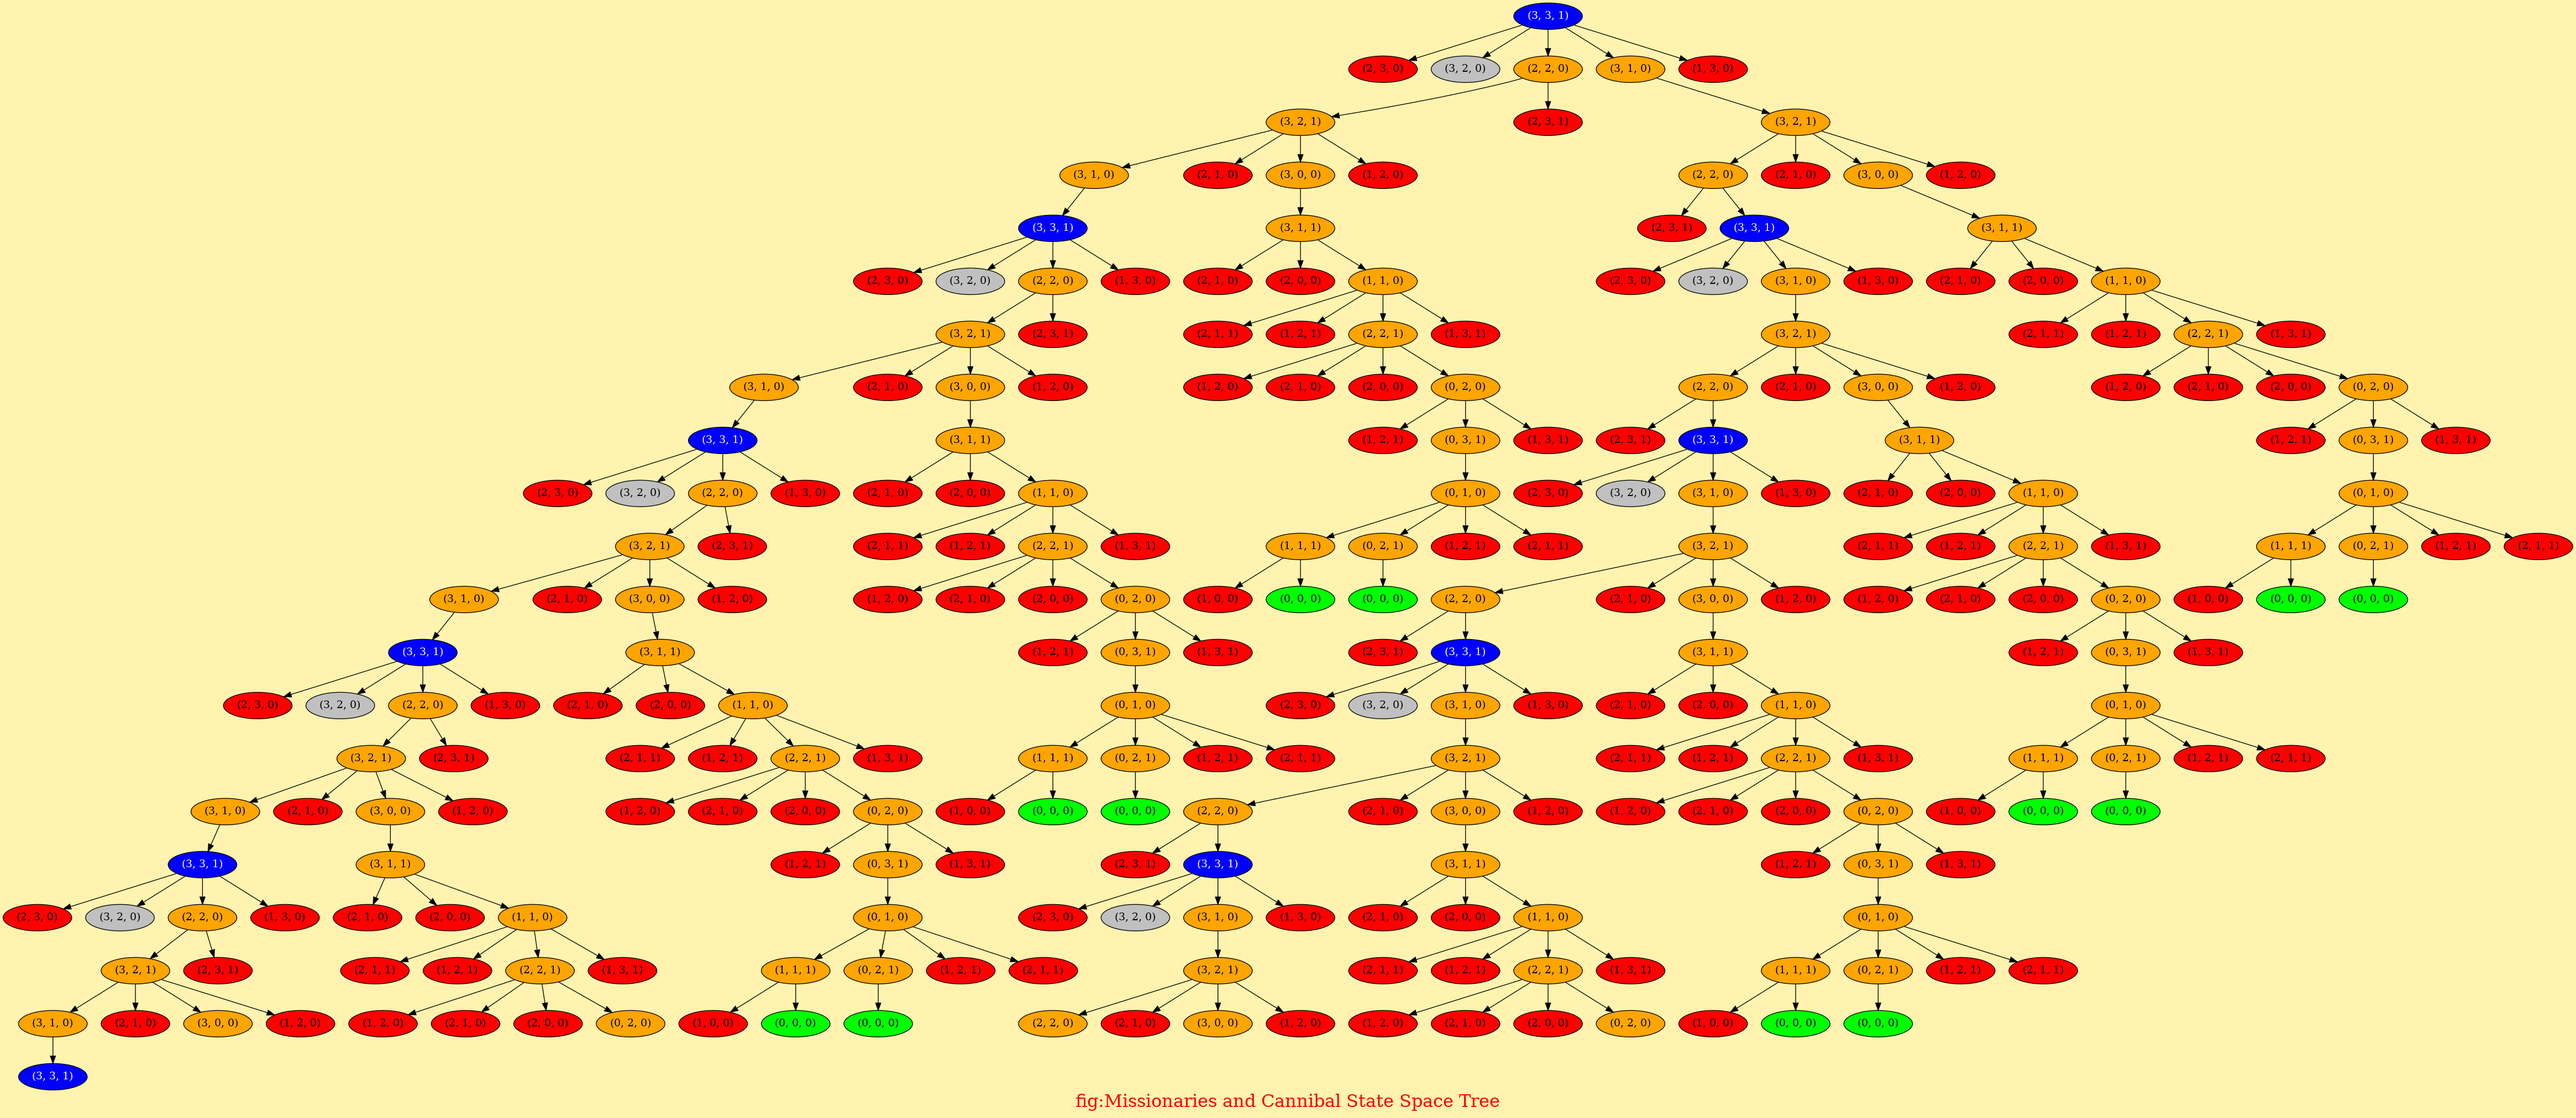
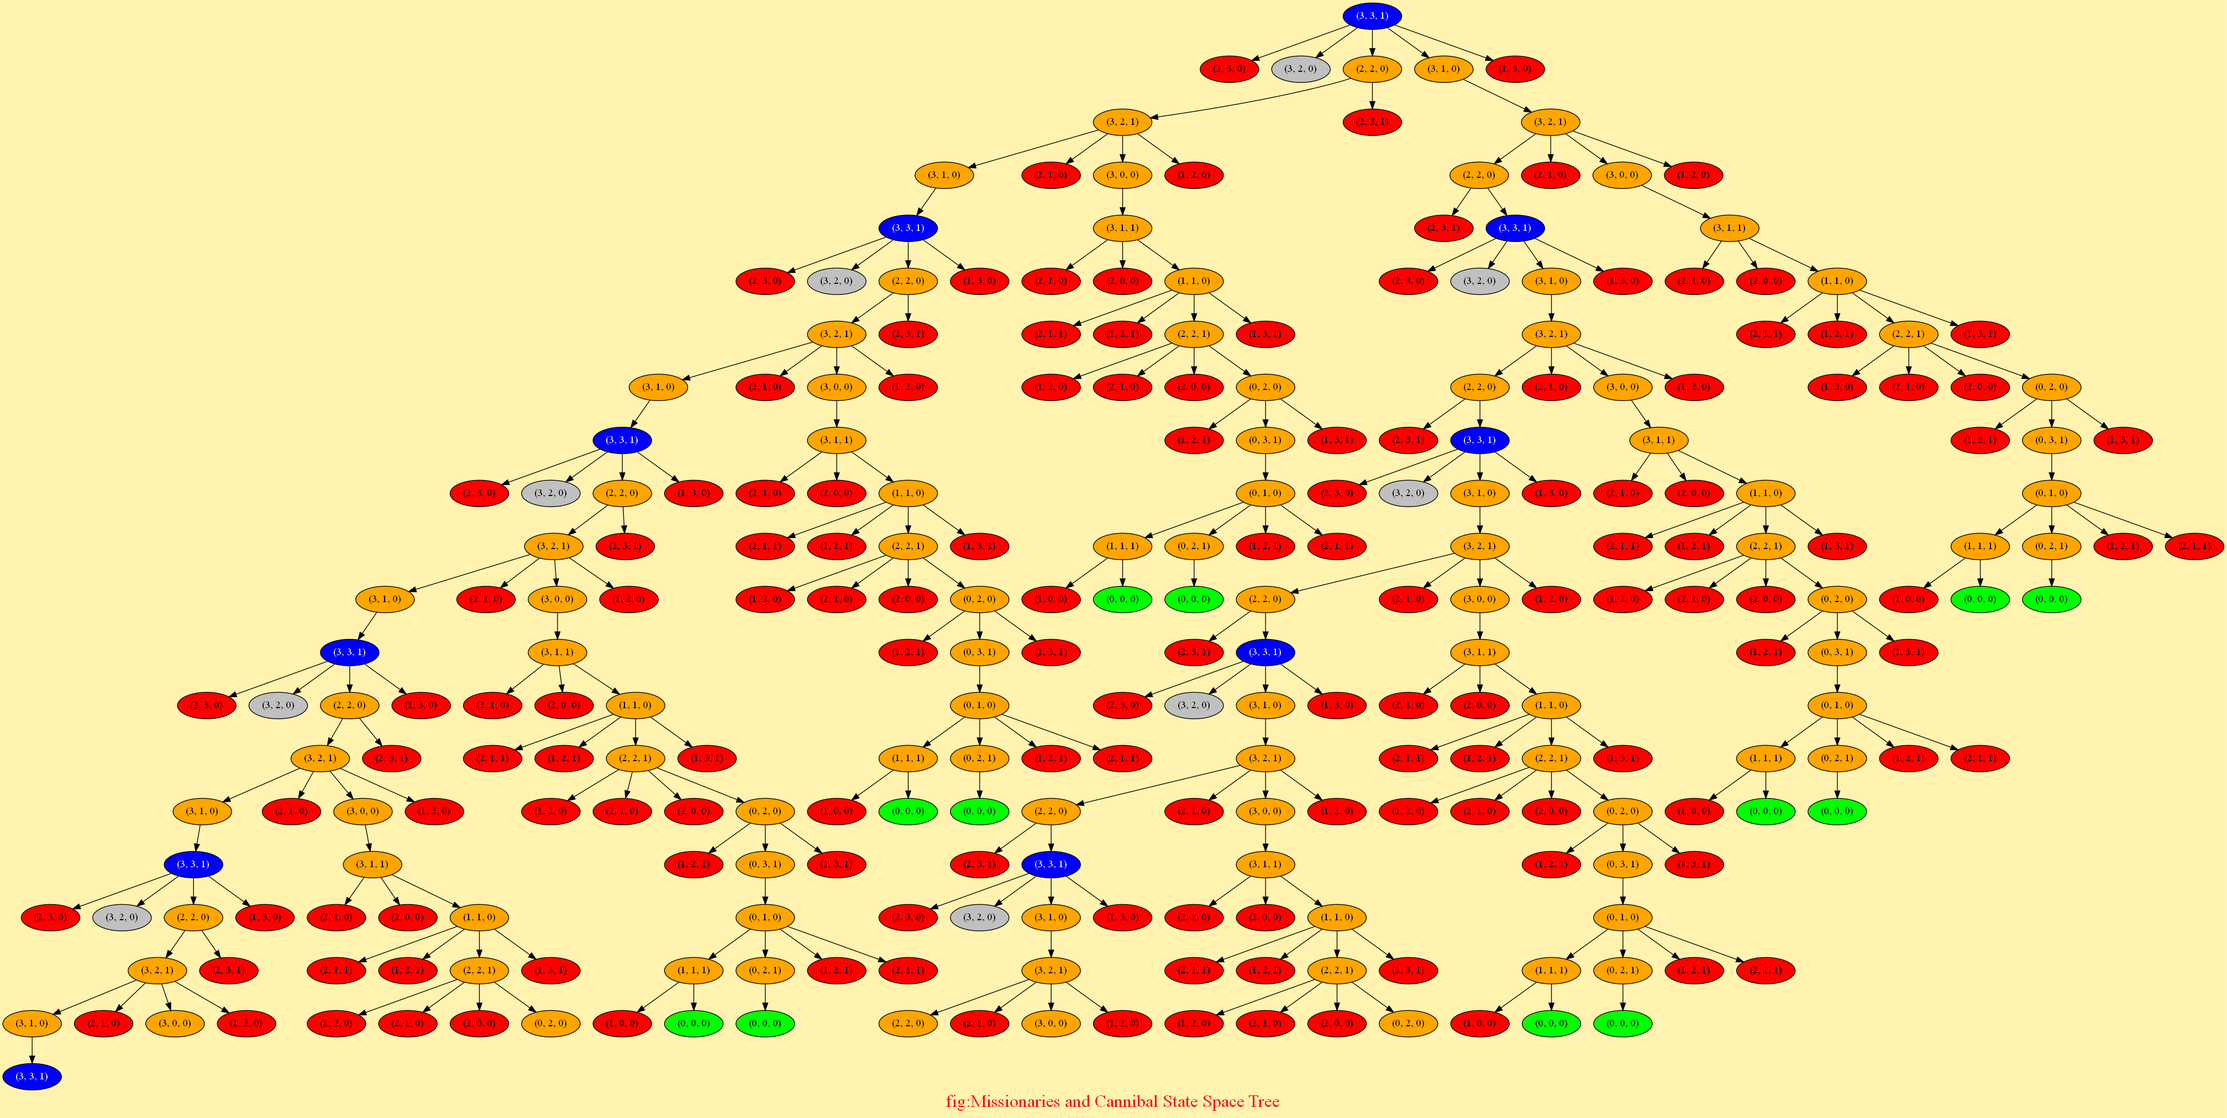
fix all code

diff --git a/TH_AI_Tuan 2/solve.py b/TH_AI_Tuan 2/solve.py
@@ -6,7 +6,7 @@ from collections import deque
 
 
 # set it to bin folder of graphvviz
-os.environ["PATH"] += os.pathsep + 'usr/bin'
+os.environ["PATH"] += os.pathsep + 'C:/Program Files/Graphviz/bin'
 
 
 # Dictionaries to backtrack solotion nodes
@@ -26,14 +26,14 @@ class Solution():
 
         self.start_state = (3, 3, 1)
         self.goal_state = (0, 0, 0)
-        self.options = [(1, 0), (0, 1), (1, 1), (0, 2), (2,0)]
+        self.options = [(1, 0), (0, 1), (1, 1), (0, 2), (2, 0)]
 
 
         self.boat_side = ["right", "left"]
 
 
-        self.graph= pydot.Dot(graph_type='graph', strict=False, bgcolor="#fff3af",
-                    label= "fig: Missionaries and Cannibal State Space Tree", fontcolor="red", fontsize= "24")
+        self.graph= pydot.Dot(graph_type='graph', bgcolor="#fff3af",
+                    label= "fig: Missionaries and Cannibals State Space Tree", fontcolor="red", fontsize= "24")
         self.visited = {}
         self.solved = False
         
@@ -54,6 +54,7 @@ class Solution():
         number_cannibals_right = 3 - number_cannibals
         return (number_missionaries > 0 and number_cannibals > number_missionaries) \
         or (number_missionaries_right > 0 and number_cannibals_right > number_missionaries_right)      
+    
     def write_image(self, file_name="state_space.png"):
         try:
             self.graph.write_png(file_name)
@@ -74,25 +75,25 @@ class Solution():
         """
         Utility method to draw legend on graph if legend flag is ON
         """
-        graphlegend = pydot.Cluster(graph_name="Legend", label="Legend", frontsize="20", color="gold",
-                                    frontclolor="blue", style="filled", fillcolor="#f4f4f4")
+        graphlegend = pydot.Cluster(graph_name="Legend", label="Legend", fontsize="20", color="gold",
+                                    fontcolor="blue", style="filled", fillcolor="#f4f4f4")
         
-        node1 = pydot.Node("1", styles="filled", fillcolor="blue", label="Start Node", frontcolor="white", width="2", fixedsize="true")
+        node1 = pydot.Node("1", style="filled", fillcolor="blue", label="Start Node", fontcolor="white", width="2", fixedsize="true")
         graphlegend.add_node(node1)
 
-        node2 = pydot.Node("2", styles="filled", fillcolor="red", label="Killed Node", frontcolor="black", width="2", fixedsize="true")
+        node2 = pydot.Node("2", style="filled", fillcolor="red", label="Killed Node", fontcolor="black", width="2", fixedsize="true")
         graphlegend.add_node(node2)
 
-        node3 = pydot.Node("3", styles="filled", fillcolor="yellow", label="Solution Node", width="2", fixedsize="true")
+        node3 = pydot.Node("3", style="filled", fillcolor="yellow", label="Solution Node", width="2", fixedsize="true")
         graphlegend.add_node(node3)
 
-        node4 = pydot.Node("4", styles="filled", fillcolor="gray", label="Can't be expanded", width="2", fixedsize="true")
+        node4 = pydot.Node("4", style="filled", fillcolor="gray", label="Can't be expanded", width="2", fixedsize="true")
         graphlegend.add_node(node4)
 
-        node5 = pydot.Node("5", syles="filled", fillcolor="green", label="Goal Node", width="2", fixedsize="true")
+        node5 = pydot.Node("5", style="filled", fillcolor="green", label="Goal Node", width="2", fixedsize="true")
         graphlegend.add_node(node5)
 
-        node7 = pydot.Node("7", styles="filled", fillcolor="gold", label="Node with child", width="2", fixedsize="true")
+        node7 = pydot.Node("7", style="filled", fillcolor="gold", label="Node with child", width="2", fixedsize="true")
         graphlegend.add_node(node7)
 
 
@@ -104,7 +105,7 @@ class Solution():
         \ncannibals to be moved from left to right \nif s == 1 and vice versa."
 
 
-        node6 = pydot.Node("6", styles="filled", fillcolor="gold", label=description, shape="plaintext", frontsize=20, frontcolor="red")
+        node6 = pydot.Node("6", style="filled", fillcolor="gold", label=description, shape="plaintext", fontsize=20, fontcolor="red")
         graphlegend.add_node(node6)
         
         self.graph.add_subgraph(graphlegend)
@@ -126,8 +127,8 @@ class Solution():
         right_m = emoji.emojize(f":old_man: " * number_missionaries_right)
         right_c = emoji.emojize(f":ogre: " * number_cannibals_right)
 
-        print('{}{}{}{}{}'.format(left_m, left_c, " " * (14 - len(left_m) - len(left_c)),\
-                                                                "_" * 40, " " * (12 - len(right_m) - len(right_c)) + right_m, right_c))
+        print('{}{}{}{}{}'.format(left_m, left_c + " " * (14 - len(left_m) - len(left_c)),\
+                                    "_" * 40, " " * (12 - len(right_m) - len(right_c)) + right_m, right_c))
         print("")
 
     def show_solution(self):
@@ -184,7 +185,7 @@ class Solution():
     def draw_edge(self, number_missionaries, number_cannibals, side, depth_level):
         u, v = None, None
         if Parent[(number_missionaries, number_cannibals, side)] is not None:
-            u = pydot.Node(str(Parent[(number_missionaries, number_cannibals, side)] + (depth_level - 1, )),
+            u = pydot.Node(str(Parent[(number_missionaries, number_cannibals, side)] + (depth_level - 1,)),
                             label=str(Parent[((number_missionaries, number_cannibals, side))]))
             self.graph.add_node(u)
 
@@ -194,7 +195,7 @@ class Solution():
             self.graph.add_node(v)
 
             edge = pydot.Edge(str(Parent[(number_missionaries, number_cannibals, side)] + (depth_level - 1,)),
-                                str((number_missionaries, number_cannibals, side)), dir="forward")
+                                str((number_missionaries, number_cannibals, side, depth_level)), dir="forward")
             self.graph.add_edge(edge)
         else:
             # For start node
@@ -205,7 +206,7 @@ class Solution():
         
     def bfs(self):
         q = deque()
-        q.append(self.start_state + (0,))
+        q.append(self.start_state + (0, ))
         self.visited[self.start_state] = True
         
         while q:
@@ -227,7 +228,7 @@ class Solution():
             elif self.number_of_cannibals_exceeds(number_missionaries, number_cannibals):
                 v.set_style("filled")
                 v.set_fillcolor("red")
-                return False
+                continue
             else:
                 v.set_style("filled")
                 v.set_fillcolor("orange")

diff --git a/TH_AI_Tuan 2/generate_full_space_tree.py b/TH_AI_Tuan 2/generate_full_space_tree.py
@@ -4,7 +4,7 @@ import argparse
 import os
 
 # set it to bin folder of graphvviz
-os.environ["PATH"] += os.pathsep + 'usr/bin'
+os.environ["PATH"] += os.pathsep + 'C:/Program Files/Graphviz/bin'
 
 options = [(1, 0), (0, 1), (1, 1), (0, 2), (2,0)]
 Parent = dict()
